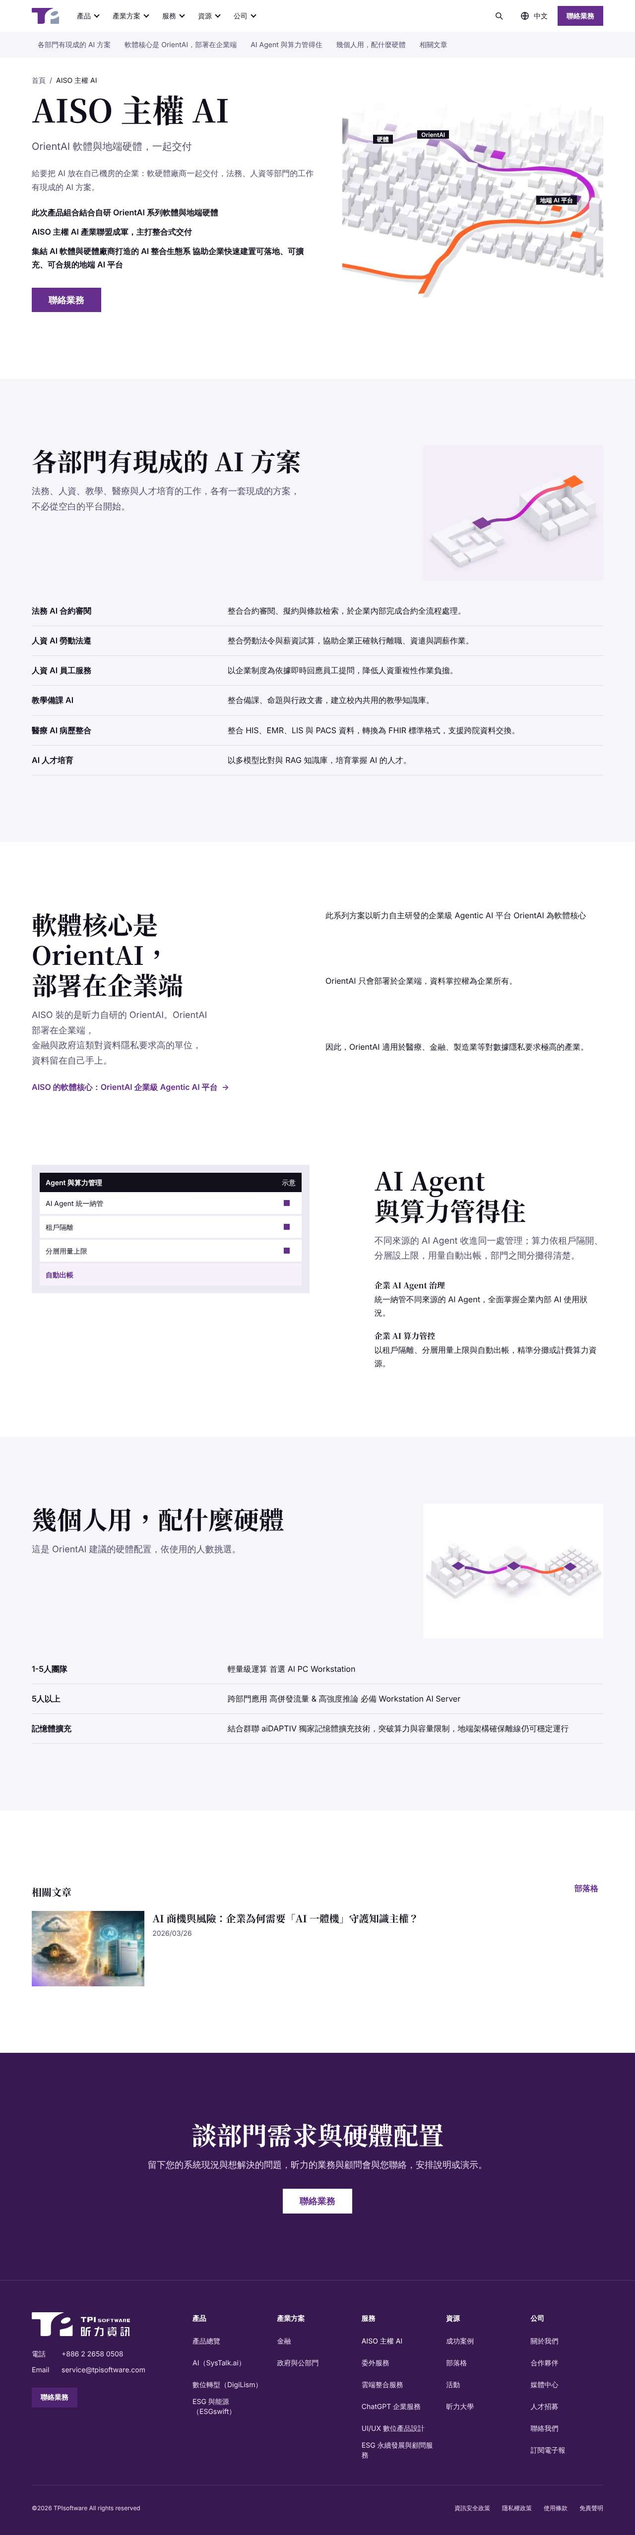
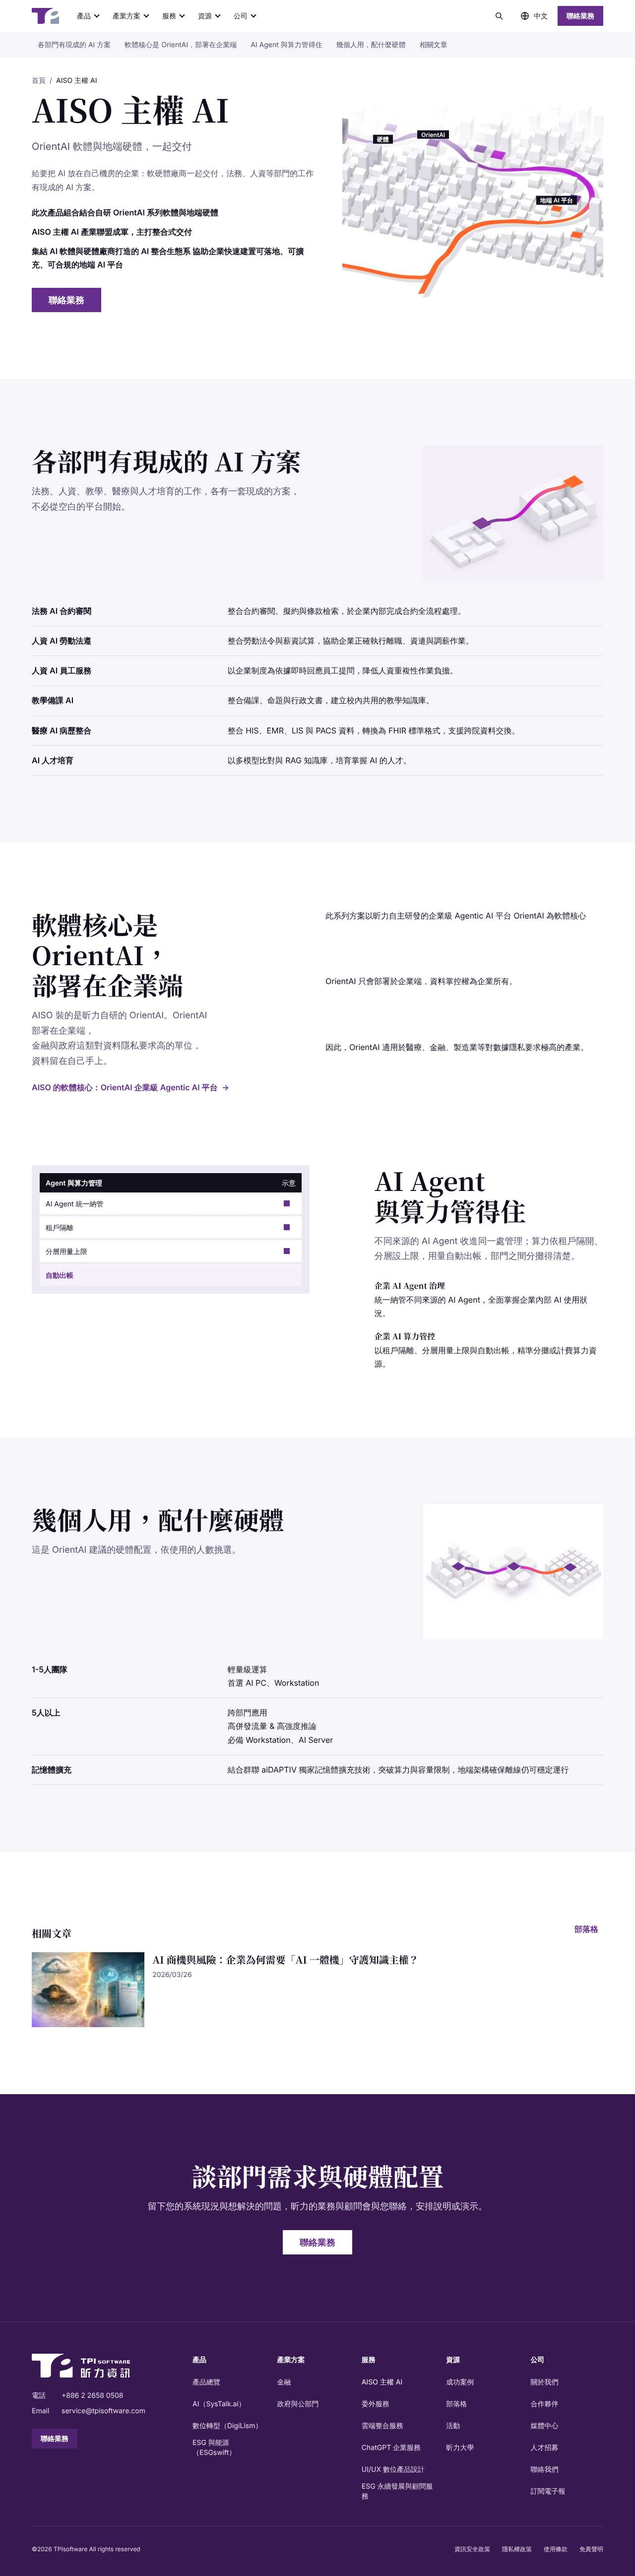
content: 硬體規格表分行、OrientAI 片段不再重列旁邊的條列（#201）
- orientai-hardware-small、-large 的 text 把規模、用途與設備分行（只加換行與頓號），兩頁的規格表一格分行顯示
- OrientAI 第 2、4、6 段：片段列出的事實不再在文字欄重列；第 2 段 h2 改成「問答、任務與模型」，1280 寬不再拆開「任務」
- 重拍評審素材 docs/strategy/evaluation/b1-201-new/

Claude-Session: https://claude.ai/code/session_01XJm8GiTVEYcd1bjTWXkpUS

diff --git a/src/content/offering/zh-TW/orient-ai.md b/src/content/offering/zh-TW/orient-ai.md
@@ -25,14 +25,15 @@ heroLabels:
   product: OrientAI
   ai1: AI Agent
 # Sections 2–8 of the brief, each in the layout its 段落表 gives. Fill marks the question groups (P5):
-# what it does (2, 3), how it is governed (4–6, subtle), hardware (7), cost (8, brand); section 9 is the template's related
-# posts (blog.relatedOfferings), section 10 its ContactCta. Headings, bodies, labels and diagram words
-# are wording; items, values and fragment rows are fact texts or words taken from them
+# what it does (2, 3), how it is governed (4–6, subtle), hardware (7), cost (8, brand). Section 9 is
+# the template's related posts (blog.relatedOfferings), section 10 its ContactCta. Headings, bodies,
+# labels and diagram words are wording; items, values and fragment rows are fact texts or words taken
+# from them. A fact a fragment lists in full is not listed again beside it (#201 design review)
 sections:
   - layout: ui
     id: execution
     itemsBelow: true
-    heading: 知識問答與跨系統任務，在同一個平台
+    heading: 問答、任務與模型
     body: 員工問企業知識、交辦跨系統的工作，都由 OrientAI 接手；模型可以換，功能模組用 MCP 接上。
     fragment:
       title: 執行層
@@ -43,10 +44,11 @@ sections:
           state: "on"
         - label: 彈性整合多種大語言模型
           state: "on"
+        - label: 支援雲地靈活部署架構
+          state: "on"
         - label: MCP 擴充應用
           state: next
     items:
-      - body: "RAG 知識問答與文件解析\nAI Agent 跨系統任務自動化\n彈性整合多種大語言模型\n支援雲地靈活部署架構"
       - body: "應用場景：\n企業知識查詢\n專業分析\n流程自動化\n智慧決策輔助"
       - title: "MCP 擴充應用"
         body: "標準化整合功能模組，彈性擴展業務，持續優化流程"
@@ -96,12 +98,13 @@ sections:
       rows:
         - label: AI Agent 統一管控與授權標準化
           state: "on"
-        - label: 消除影子 AI
+        - label: Token 用量監控與資源配置最佳化
+          state: "on"
+        - label: 消除影子 AI，防止機敏資料外洩
           state: "on"
         - label: 跨部門統一權限管理與資料治理
           state: "on"
     items:
-      - body: "AI Agent 統一管控與授權標準化\nToken 用量監控與資源配置最佳化\n消除影子 AI，防止機敏資料外洩\n跨部門統一權限管理與資料治理"
       - body: "對 AI 模型與 Agent 實施全週期管理，將影子 AI 統一納管，建立身分驗證機制與資料存取邊界，避免越權存取、異常行為等資安破口。"
       - body: "應用場景：\nAI 資源管理\n跨部門工具共享\n權限審核\n模型與成本控管"
   - layout: claim
@@ -114,7 +117,6 @@ sections:
       - body: "因此，OrientAI 適用於醫療、金融、製造業等對數據隱私要求極高的產業。"
   - layout: ui
     id: monitoring
-    itemsBelow: true
     fill: subtle
     heading: 使用與異常看得到
     body: 上線之後，AI 回覆的品質、任務跑到哪裡、誰在用，都看得到；操作留有日誌，異常行為會即時告警。
@@ -132,8 +134,6 @@ sections:
         - label: 偵測異常行為，即時告警
           state: "on"
     items:
-      - title: "強化 AI 治理"
-        body: "精細化角色權限控管\n日誌追蹤與稽核\n偵測異常行為，即時告警"
       - body: "即時檢視 AI 回覆品質、任務執行狀態、使用行為，建立異常預警機制"
   - layout: spec
     id: hardware
@@ -142,9 +142,9 @@ sections:
     body: 團隊人數決定要配的設備；搭配群聯 aiDAPTIV 的記憶體擴充，地端架構離線也能運作。
     rows:
       - label: 1-5人團隊
-        values: ["輕量級運算 首選 AI PC Workstation"]
+        values: ["輕量級運算\n首選 AI PC、Workstation"]
       - label: 5人以上
-        values: ["跨部門應用 高併發流量 & 高強度推論 必備 Workstation AI Server"]
+        values: ["跨部門應用\n高併發流量 & 高強度推論\n必備 Workstation、AI Server"]
       - label: 記憶體擴充
         values: ["結合群聯 aiDAPTIV 獨家記憶體擴充技術，突破算力與容量限制，地端架構確保離線仍可穩定運行"]
     link:

diff --git a/src/content/offering/zh-TW/aiso.md b/src/content/offering/zh-TW/aiso.md
@@ -86,9 +86,9 @@ sections:
     body: 這是 OrientAI 建議的硬體配置，依使用的人數挑選。
     rows:
       - label: 1-5人團隊
-        values: ["輕量級運算 首選 AI PC Workstation"]
+        values: ["輕量級運算\n首選 AI PC、Workstation"]
       - label: 5人以上
-        values: ["跨部門應用 高併發流量 & 高強度推論 必備 Workstation AI Server"]
+        values: ["跨部門應用\n高併發流量 & 高強度推論\n必備 Workstation、AI Server"]
       - label: 記憶體擴充
         values: ["結合群聯 aiDAPTIV 獨家記憶體擴充技術，突破算力與容量限制，地端架構確保離線仍可穩定運行"]
 cta: contact
